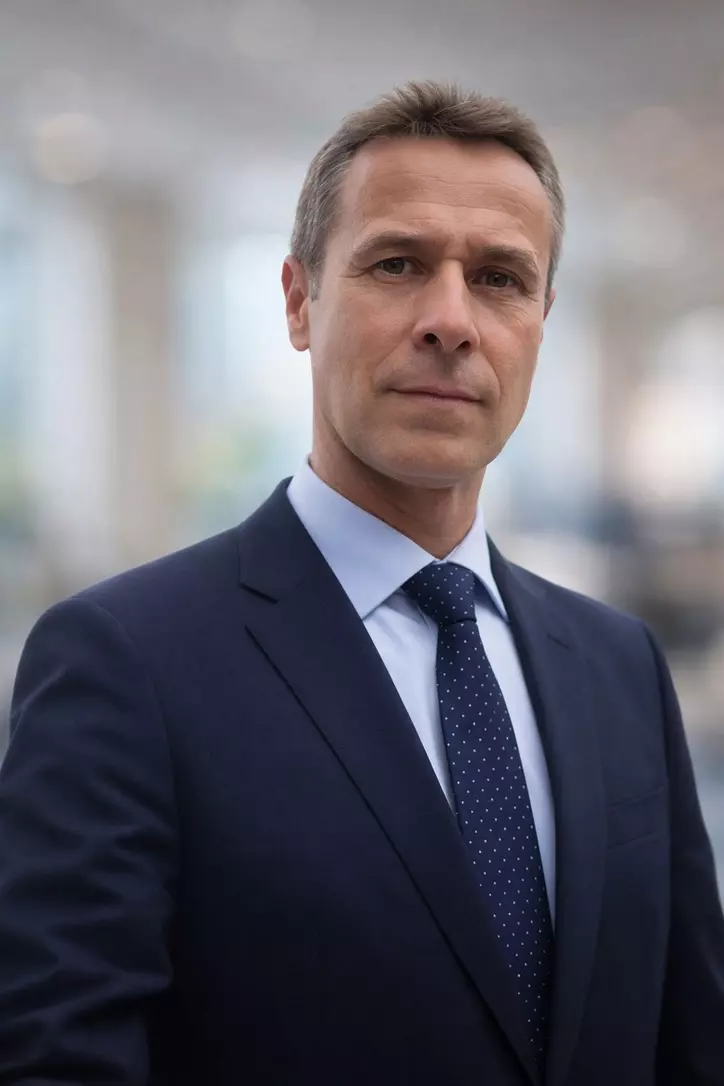
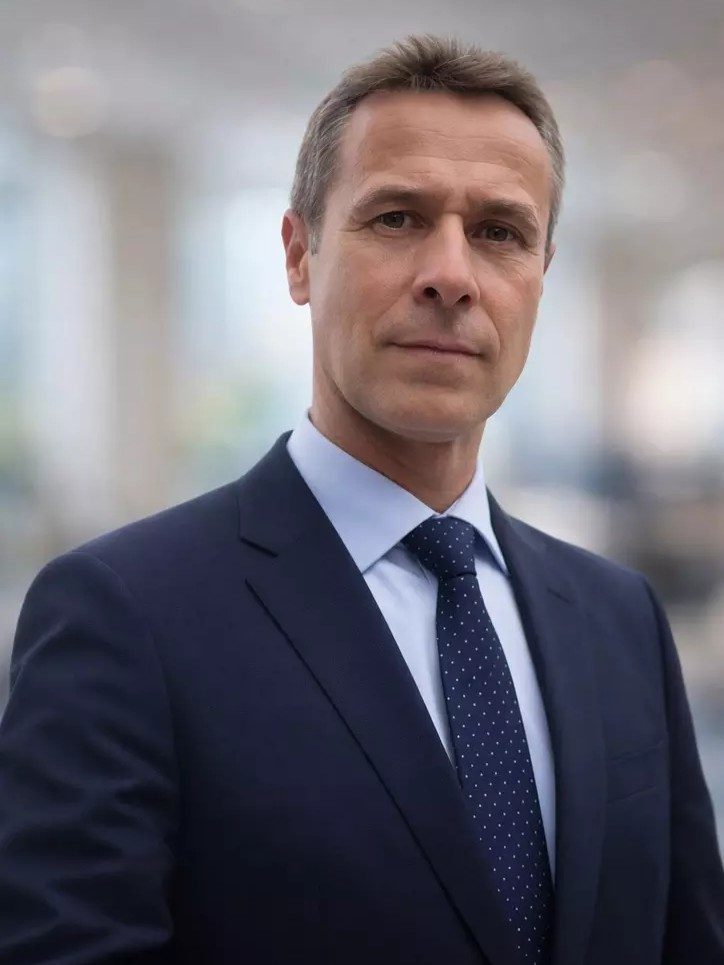
Added/fixed news
Added MQIST visit
Added CITIC quantum investment
Fixed reference links
Fixed thumbnails proportions

diff --git a/_posts/2026-05-04-udc_quantum.md b/_posts/2026-05-04-udc_quantum.md
@@ -1,0 +1,16 @@
+---
+layout: post
+title: UDC's CITIC promotes a pioneering quantum infrastructure for research services
+subtitle: The center achieved a budget of 1.04M€ to create a new infrastructure for the development of projects that will have an impact in areas such as health, industry or cybersecurity.
+tags: [quantum machine learning, AI]
+cover-img: /assets/img/posts/udc_quantum_cover.jpg
+thumbnail-img: /assets/img/posts/udc_quantum_thumb.jpg
+---
+
+Universidade da Coruña has secured over 1€ million in funding to strengthen research in quantum computing and communications at its Centro de Investigación en Tecnoloxías da Información e as Comunicacións. The investment, backed by Spain’s Ministry of Science and co-financed by the European Union, will support the creation of advanced infrastructure that combines classical and quantum computing systems. This hybrid approach aims to tackle complex problems and drive innovation in fields such as healthcare, cybersecurity, and materials science.
+
+The new infrastructure will provide specialized equipment and foster collaboration across disciplines, allowing multiple research groups and external partners to experiment with quantum technologies. As noted by Eduardo Mosqueira Rey (co-IP of the NEXT-GEN-SOMNUS project), “quantum computing is getting closer and closer to our daily lives… it could have a direct impact on many areas, from healthcare to industry.” It also reinforces CITIC’s growing reputation in the field, building on its pioneering role in Galicia alongside the Centro de Supercomputación de Galicia and its participation in major European initiatives like NEASQC and QEX.
+
+Overall, the funding marks a strategic step in consolidating CITIC as a key player in quantum research, with a focus on real-world applications such as secure communications and advanced computation. The initiative is designed as an open, collaborative platform that encourages knowledge transfer to industry and society, supporting economic and technological growth. It also aligns with the university’s broader commitment to high-quality research and innovation in areas expected to shape the future.
+
+<a href="https://www.udc.es/es/novas/O-CITIC-da-UDC-impulsa-unha-infraestrutura-cuantica-pioneira-ao-servizo-da-investigacion/" target="_blank">Reference</a>

diff --git a/_posts/2026-05-02-mqist_visit.md b/_posts/2026-05-02-mqist_visit.md
@@ -1,0 +1,14 @@
+---
+layout: post
+title: Master's degree students visits the Quantum Computing research centers of A Coruña
+subtitle: The interuniversitary master's degree organized a day trip for its students to get to know how quantum research is conducted
+tags: [quantum machine learning]
+cover-img: /assets/img/posts/mqist_visit_cover.jpg
+thumbnail-img: /assets/img/posts/mqist_visit_thumb.jpg
+---
+
+The students of the Master in Quantum Information, Sciences and Technologies (MQIST) traveled to A Coruña from Santiago and Vigo to enjoy a day together. The morning passed at the CITIC facilities in the new ICT City of A Coruña. 
+
+There they were able to learn first-hand about the projects that are being developed in quantum computing in this Singular Center as well as in the Faculty of Informatics of the UDC. Late in the morning, ITG (Technological Institute of Galicia), also presented the projects it develops in the field of quantum computing applied to communications and energy networks.
+
+<a href="https://quantummastergalicia.es/el-master-mqist-visita-los-centros-de-investigacion-en-computacion-cuantica-de-a-coruna/" target="_blank">Reference</a>

diff --git a/_posts/2025-02-27-citic1_post.md b/_posts/2025-02-27-citic1_post.md
@@ -13,4 +13,4 @@ The CITIC research center at the University of A Coruña has joined forces with 
 
 Coordinated by Eduardo Mosqueira Rey and Diego Álvarez Estévez under the 2023 Knowledge Generation Projects call, and funded by the Spanish Ministry of Science, Innovation and Universities, the State Research Agency, and the European Regional Development Fund (ERDF), NEXT-GEN-SOMNUS focuses on improving the analysis of medical sleep records. This is achieved through next-generation machine learning algorithms based on attention mechanisms, expert human-in-the-loop collaboration, and the integration of quantum computing.
 
-<a href="https://citic.udc.es/gl/ia-e-computacion-cuantica-para-mellorar-o-diagnostico-de-trastornos-do-sono/">Reference</a>  
+<a href="https://citic.udc.es/gl/ia-e-computacion-cuantica-para-mellorar-o-diagnostico-de-trastornos-do-sono/" target="_blank">Reference</a>  

diff --git a/_posts/2025-02-27-codigo_post.md b/_posts/2025-02-27-codigo_post.md
@@ -13,6 +13,6 @@ CITIC has recruited new researchers to drive forward projects applying artificia
 
 Coordinated by researchers Eduardo Mosqueira Rey and Diego Álvarez Estévez within the framework of the 2023 State Call for Projects for the Generation of Knowledge, the project will use real data and test the models in both, simulators and CESGA's real quantum computer. This initiative aims to overcome the limitations of current computer-aided diagnosis systems by improving their explainability, performance, and generalisation capacity in response to the growing demand arising from the significant number of individuals affected by sleep disorders in Spain.
 
-<a href="https://codigocero.com/O-CESGA-xunta-forzas-co-CITIC-para-combater-con-IA-e-computacion-cuantica-os">Reference</a>  
+<a href="https://codigocero.com/O-CESGA-xunta-forzas-co-CITIC-para-combater-con-IA-e-computacion-cuantica-os" target="_blank">Reference</a>  
 
 

diff --git a/_posts/2025-02-27-gciencia_post.md b/_posts/2025-02-27-gciencia_post.md
@@ -16,4 +16,4 @@ The project's primary goal is to develop more efficient, explainable solutions f
 The project aims to overcome the limitations of current diagnostic methods, which are complex, costly and not very scalable, making it challenging to meet the increasing demand. Integrating AI techniques and quantum computing will accelerate diagnosis, reduce costs, and enhance clinical efficiency, thereby benefiting over four million individuals in Spain suffering from sleep disorders.
 
 
-<a href="https://www.gciencia.com/conece-citic/problemas-de-sono-un-proxecto-galego-usa-ia-e-computacion-cuantica-para-a-sua-diagnose/">Reference</a>  
+<a href="https://www.gciencia.com/conece-citic/problemas-de-sono-un-proxecto-galego-usa-ia-e-computacion-cuantica-para-a-sua-diagnose/" target="_blank">Reference</a>  

diff --git a/_posts/2025-02-27-lavoz_post.md b/_posts/2025-02-27-lavoz_post.md
@@ -16,4 +16,4 @@ In collaboration with CESGA, the project focuses on designing advanced machine l
 The research employs both empirical sleep data and simulations on quantum hardware and emulators to validate the models. By overcoming the limitations of conventional diagnostic methods—which are often labor-intensive and costly—this initiative seeks to accelerate and improve diagnostic processes. Additionally, expert clinical knowledge is incorporated to enhance model precision and interpretability.
 
 
-<a href="https://www.lavozdegalicia.es/noticia/sociedad/2025/02/27/computacion-cuantica-inteligencia-artificial-trastornos-sueno/00031740656564671822506.htm">Reference</a>  
+<a href="https://www.lavozdegalicia.es/noticia/sociedad/2025/02/27/computacion-cuantica-inteligencia-artificial-trastornos-sueno/00031740656564671822506.htm" target="_blank">Reference</a>  

diff --git a/_posts/2025-03-26-citic2_post.md b/_posts/2025-03-26-citic2_post.md
@@ -16,4 +16,4 @@ Their study focuses on developing an AI algorithm to automatically analyze polys
 Currently, these analyses are performed manually and are time-consuming. The team’s tool aims to accelerate diagnosis and support specialists in treating sleep disorders.
 
 
-<a href="https://citic.udc.es/gl/ia-para-mellorar-o-diagnostico-das-desordes-do-sono/">Reference</a>  
+<a href="https://citic.udc.es/gl/ia-para-mellorar-o-diagnostico-das-desordes-do-sono/" target="_blank">Reference</a>  

diff --git a/_posts/2025-06-05-mit_post.md b/_posts/2025-06-05-mit_post.md
@@ -16,4 +16,4 @@ On June 4, CITIC's director, Manuel G. Penedo, will welcome the students, who wi
 The other three students, Ishanvi Kommula, Jaime Sebastián Punyed, and Jace López, will join the RNASA-IMEDIR group. They will explore the application of Large Language Models (LLMs) to cybersecurity with a focus on network traffic monitoring and threat detection.
 
 
-<a href="https://citic.udc.es/talento-global-en-galicia-estudiantes-del-mit-investigaran-ia-aplicada-a-ciberseguridad-y-salud-en-el-citic-de-la-udc/">Reference</a>  
+<a href="https://citic.udc.es/talento-global-en-galicia-estudiantes-del-mit-investigaran-ia-aplicada-a-ciberseguridad-y-salud-en-el-citic-de-la-udc/" target="_blank">Reference</a>  